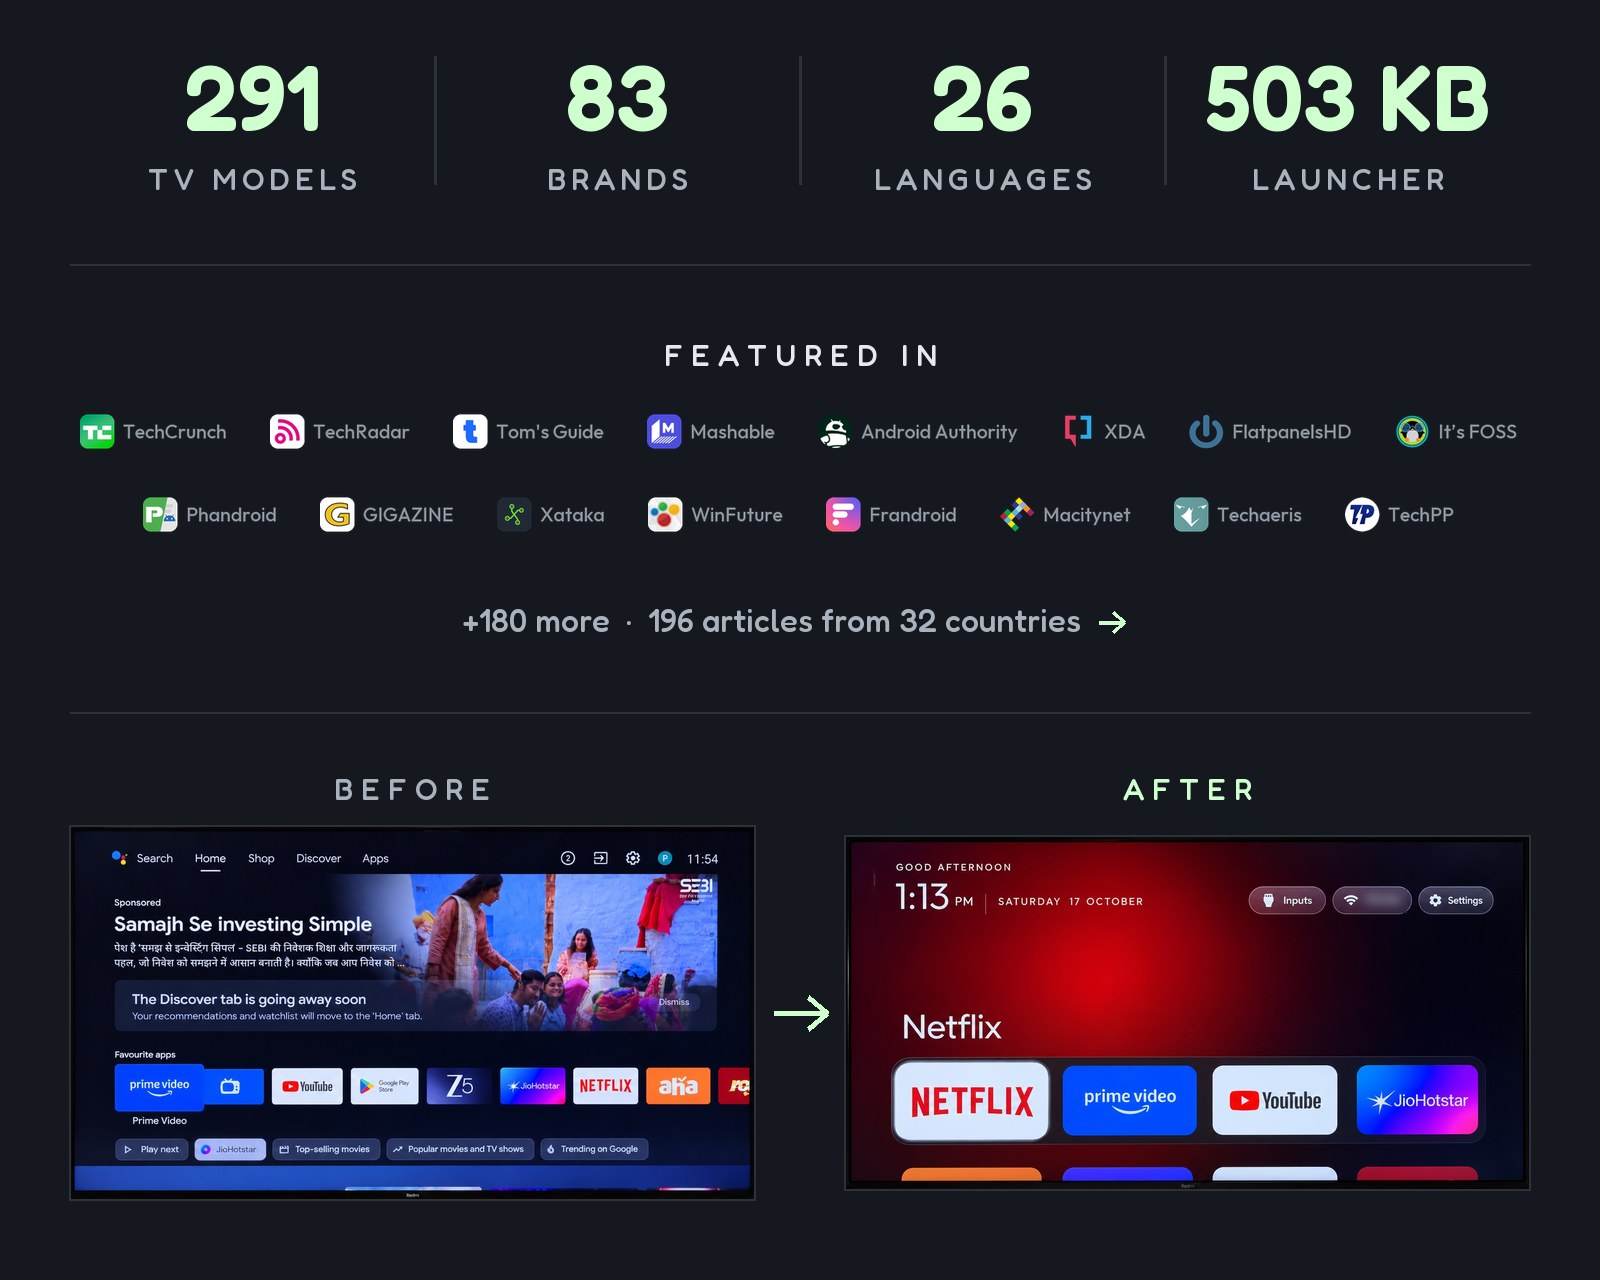
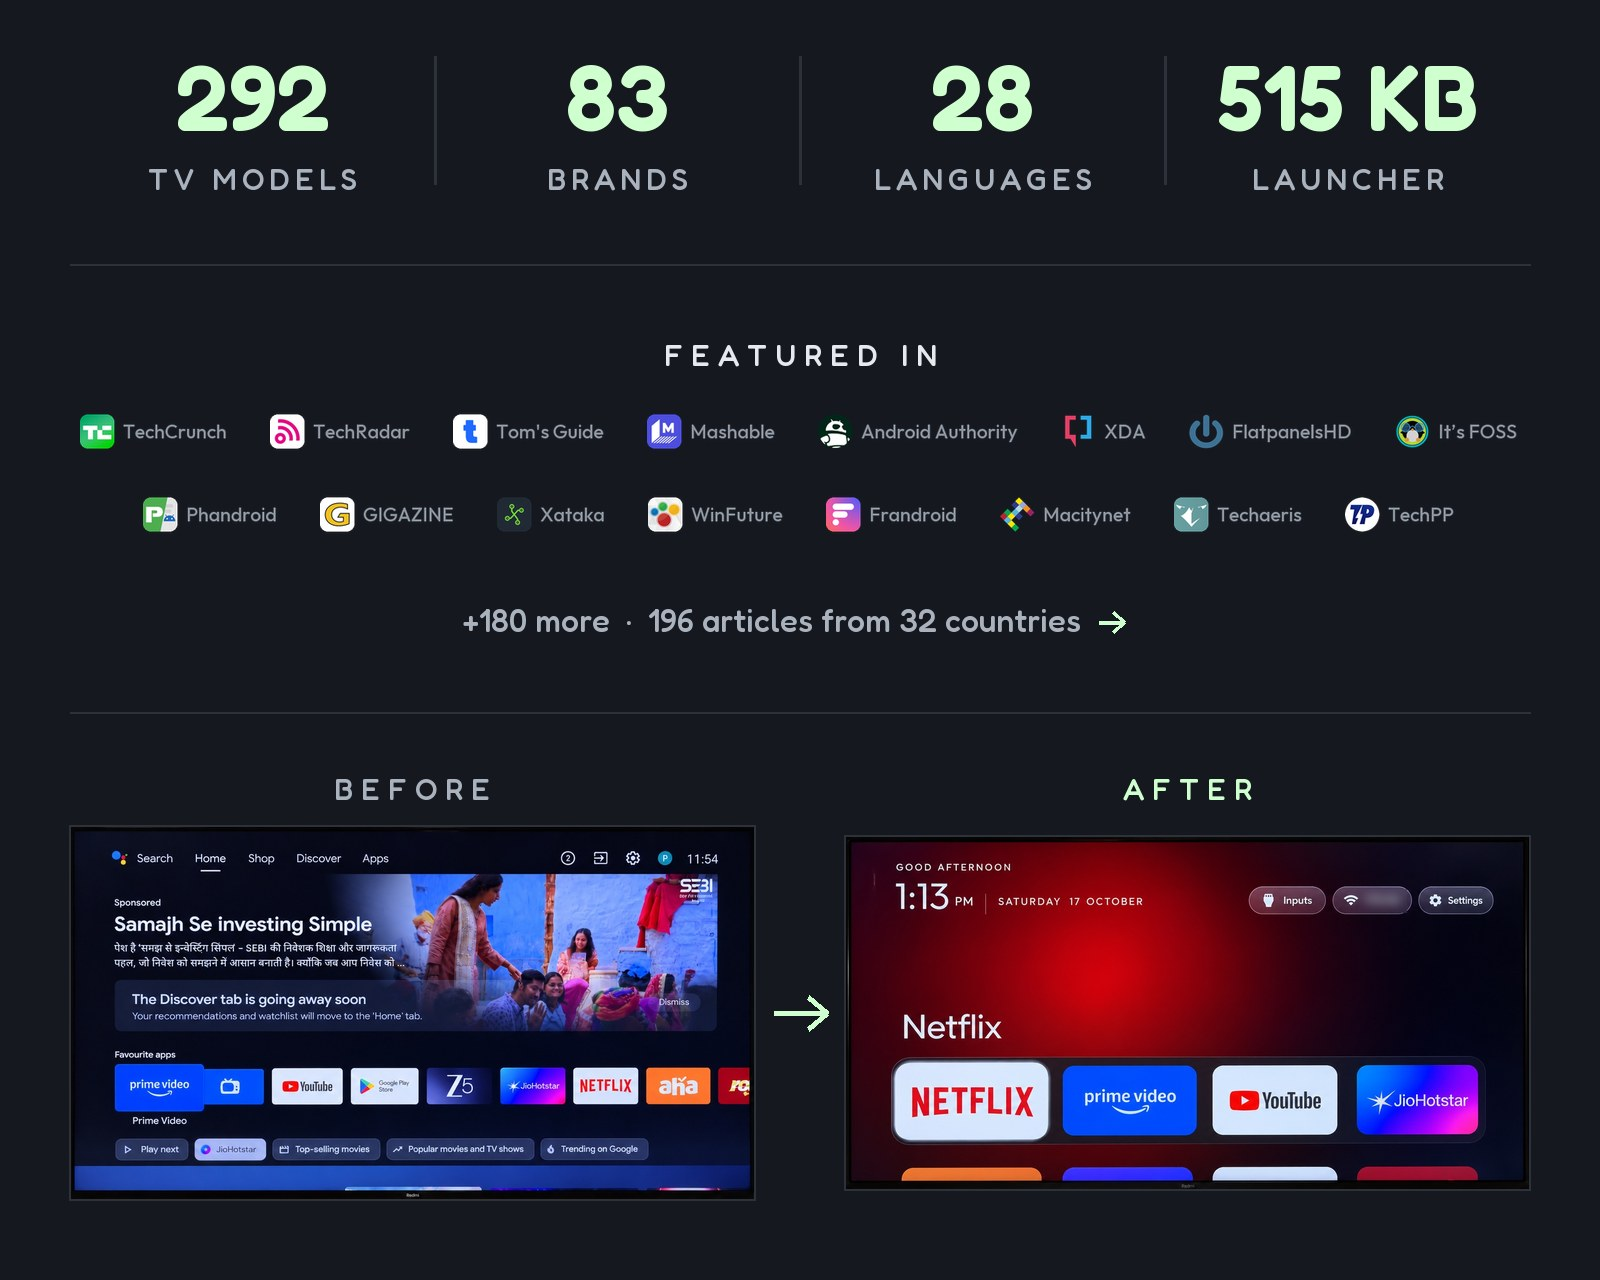
README: tables, counts and card after Round X (292 TV models, 83 brands, 28 languages, about 515 KB)

Changed region(s): [[0.75, 0.0312, 0.9375, 0.125], [0.0938, 0.0312, 0.2188, 0.125], [0.5938, 0.0625, 0.6562, 0.0938]]

diff --git a/tests/test_translation_recipe_gate.py b/tests/test_translation_recipe_gate.py
@@ -5,7 +5,7 @@ in `values/strings.xml`, so a full language is by far the largest thing a transl
 adds to `launcher/app/src/main/res/` - and the release APK has a hard budget:
 `.github/workflows/ci.yml`'s `launcher` job, which runs on every pull request in `launcher/`, measures
 `launcher/app/build/outputs/apk/release/app-release.apk` and fails the build at 589,824 B. The launcher
-ships just under that (README.md quotes about 503 KB), and #1271 is a full Korean translation that did
+ships just under that (README.md quotes about 515 KB), and #1271 is a full Korean translation that did
 not fit. Until now the page said nothing about it, so a translator could follow the recipe exactly and
 land a red build at a step the page never mentions.
 

diff --git a/tools/readme_stats.py b/tools/readme_stats.py
@@ -37,7 +37,7 @@ try:
 except ImportError:
     sys.exit("readme_stats.py needs Pillow: tools/venv/bin/pip install -r tools/requirements-perf.txt")
 
-STATS = [("291", "TV MODELS"), ("83", "BRANDS"), ("26", "LANGUAGES"), ("503 KB", "LAUNCHER")]
+STATS = [("292", "TV MODELS"), ("83", "BRANDS"), ("28", "LANGUAGES"), ("515 KB", "LAUNCHER")]
 W, H = 1600, 240
 img = Image.new("RGB", (W, H), "#15181e"); d = ImageDraw.Draw(img)
 def f(size, wt):

diff --git a/README.md b/README.md
@@ -19,7 +19,7 @@
 </p>
 
 <p align="center">
-  <a href="docs/PRESS.md"><img src="docs/card.jpg" alt="291 TV models · 83 brands · 26 languages · 503 KB launcher. Featured in TechCrunch, TechRadar, Tom's Guide, Mashable, Android Authority, XDA, FlatpanelsHD, It's FOSS, Phandroid, GIGAZINE, Xataka, WinFuture, Frandroid, Macitynet, Techaeris, TechPP and 180 more: 196 articles from 32 countries. Before: stock Google TV home with a sponsored ad. After: the Clean Your TV launcher." width="800"></a>
+  <a href="docs/PRESS.md"><img src="docs/card.jpg" alt="292 TV models · 83 brands · 28 languages · 515 KB launcher. Featured in TechCrunch, TechRadar, Tom's Guide, Mashable, Android Authority, XDA, FlatpanelsHD, It's FOSS, Phandroid, GIGAZINE, Xataka, WinFuture, Frandroid, Macitynet, Techaeris, TechPP and 180 more: 196 articles from 32 countries. Before: stock Google TV home with a sponsored ad. After: the Clean Your TV launcher." width="800"></a>
 </p>
 
 **The viral tweet:** [x.com/gathint/status/2111379569030939102](https://x.com/gathint/status/2111379569030939102)
@@ -114,7 +114,7 @@ Tested lists from contributors, one folder per model in [`examples/`](examples/)
 
 <!-- tv-brands:start: generated by tools/gen_tables.py from examples/*/tv.json; edit those, not this -->
 
-**TCL** 63 · **Sony** 37 · **Xiaomi** 31 · **Philips** 15 · **Hisense** 10 · **Skyworth** 9 · **Amazon Fire TV** 7 ·
+**TCL** 64 · **Sony** 37 · **Xiaomi** 31 · **Philips** 15 · **Hisense** 10 · **Skyworth** 9 · **Amazon Fire TV** 7 ·
 **BenQ** 4 · **OnePlus** 4 · **Panasonic** 4 · **Thomson** 4 · **Google** 3 · **Haier** 3 · **JVC** 3 · **SHARP** 3 ·
 **Vu** 3 · **CHiQ** 2 · **FFalcon** 2 · **Hitachi** 2 · **Kalley** 2 · **Kogan** 2 · **Motorola** 2 · **Nokia** 2 ·
 **NVIDIA Shield** 2 · **onn** 2 · **RCA** 2 · **Redmi** 2 · **Sankey** 2 · **Toshiba** 2 · **Vidda** 2 ·
@@ -322,6 +322,7 @@ Anker Nebula, BYINTEK, Epson, Formovie, Gadnic, HOTACK, JMGO, Magcubic, Portroni
 | TCL 50C725K (Smart TV Pro, BeyondTV4/BeyondTV6, RTD2851M, Realtek rtd288o, 2 GB), AR10 build | Android TV 11 |
 | TCL 50DP660 (Europe, "Percee TV", MediaTek MT5658 / board mt5891, V8-T658T01-LF1V602) | Android TV 8.0 |
 | TCL 50EP680 (Europe, BeyondTV, Realtek rtd285o) | Android TV 11 |
+| TCL 50J7000A (Thailand, BeyondTV, Realtek RT2851 / rtd285o, AR04, V8-R851T02-LF1V674) | Android TV 11 |
 | TCL 50P615 (Greece and Türkiye, BeyondTV, Realtek RTD2851 / rtd285o, AR05) | Android TV 11 |
 | TCL 50P735 (BeyondTV4, Smart TV Pro) | Google TV 11 |
 | TCL 55" 4K Google TV, 2023 (G10, G10_4K_US_NF); also TCL 55P6K, Spain and TCL 43P69K, Netherlands (G10_4K_GB_NF_32BIT) | Google TV 12 |
@@ -466,7 +467,7 @@ tools/theme.sh themes/aurora                                 # push a theme; --r
 | [`tools/flamechart.py`](tools/flamechart.py) | Draws a before/after flame chart from those traces, for a pull request: one lane per thread on a shared time scale, the work a change targets in magenta with its total. Optional, like the trace tools. [Guide](tools/flamechart.md). |
 | [`tools/screendiff.py`](tools/screendiff.py) | Compares a before and an after screenshot pixel by pixel, leaving out the clock or anything you mask, and writes the pair with your Wi-Fi name blurred. Optional, like the trace tools. [Guide](tools/screendiff.md). |
 | [`tools/race_calendar.py`](tools/race_calendar.py) | Writes this season's F1 calendar into a theme for race-weekend mode, from the free Jolpica API. |
-| [`launcher/build-and-install.sh`](launcher/build-and-install.sh) | Builds a shrunk release (about 503 KB), installs it, switches Home, and rolls back if Home does not land on it. |
+| [`launcher/build-and-install.sh`](launcher/build-and-install.sh) | Builds a shrunk release (about 515 KB), installs it, switches Home, and rolls back if Home does not land on it. |
 
 The scripts never leave the TV without a Home app: they only disable a stock launcher they recognise,
 and skip the Home app in a list until another launcher answers HOME. Details below.
@@ -538,7 +539,7 @@ apps), which is why the report names that loss per package instead of calling it
 
 ## The launcher
 
-A small native home screen for Android TV: **about 503 KB**, plain Java, built for TVs with 1 GB of RAM.
+A small native home screen for Android TV: **about 515 KB**, plain Java, built for TVs with 1 GB of RAM.
 No blur, no video, no network permission, no background services.
 
 The **TV** needs Android 8.0 (API 26) or newer: `minSdk` is a compile-time floor in
@@ -551,7 +552,7 @@ The **TV** needs Android 8.0 (API 26) or newer: `minSdk` is a compile-time floor
 | **Configure** | Dock order, hidden apps, Live TV app, 4 to 7 tiles per row, reduced motion. All in [`config.xml`](launcher/app/src/main/res/values/config.xml) |
 | **Settings on the TV** | Hold OK on Settings for launcher settings. Optional `launcher_settings_button` makes a normal click open them directly; TV settings remain on the settings page and their app tile. |
 | **Themes** | Background, wallpaper and layout from a `config.json` pushed over Wi-Fi, no rebuild. nine ship in [`themes/`](themes/), the built-in `default/` included |
-| **26 languages** | Follows the TV's language, with a fully mirrored right-to-left layout for Hebrew |
+| **28 languages** | Follows the TV's language, with a fully mirrored right-to-left layout for Hebrew |
 | **App library** | Optional: browse every installed app and add or remove Home shortcuts. See [the app library guide](docs/app-library.md) |
 | **Tile menu** | Optional (`tile_menu`): hold OK on a tile for Move, Remove from Home and App info. Off, holding OK opens App info |
 | **Module cards** | Any TV app can offer its own tile; you approve each one once. See [`docs/modules.md`](docs/modules.md) |

diff --git a/examples/README.md b/examples/README.md
@@ -196,6 +196,7 @@ on that firmware, grouped and commented. These are starting points: comment out 
 | `tcl-50c725k/` | TCL 50C725K (Smart TV Pro, BeyondTV4/BeyondTV6, RTD2851M, Realtek rtd288o, 2 GB), AR10 build | Android TV 11 | Same BeyondTV4 family as `tcl-65c725/` and `tcl-55c725/`, with the older `tvlauncher` (replaced by `launcher/`); TCL home-content push, TCL Channel, promos, analytics, messagebox, dashboard, browser, gallery, auto-installs and Google feedback/partner setup; Google voice (katniss, ~175 MB RAM), TalkBack/TTS and Netflix/Stan/Play Games off by choice; TCL account, firmware updater, Chromecast, Miracast and screensaver kept; Live TV `com.tcl.tv` and inputs `com.tcl.tvinput` kept; reboot-checked |
 | `tcl-50dp660/` | TCL 50DP660 (Europe, "Percee TV", MediaTek MT5658 / board mt5891, V8-T658T01-LF1V602) | Android TV 8.0 | TCL content tiles (T-Channel), MagiConnect, Alexa bridge, OTA updater, USB players, Rakuten preload and ODM test apps; Assistant and speech recognition off (no microphone), Cast kept; stock launcher has HOME priority 2 and must be disabled; three PERSISTENT `android.uid.system` packages survive `disable-user`; factory menu from the remote via Picture > Advanced Settings > Brightness > Contrast > `1950` with network ADB on 5555; an NVM reset needs a factory reset and a USB reflash afterwards or the Wi-Fi MAC, Widevine keybox and Netflix ESN stay wiped; [compatibility notes](../docs/devices/tcl-50dp660.txt) |
 | `tcl-50ep680/` | TCL 50EP680 (Europe, BeyondTV, Realtek rtd285o) | Android TV 11 | TCL analytics + content feed, giftbox dashboard, partner customizer, preloaded games/news; UK Freeview apps already off at the factory; voice off by choice; launcher works (stock `com.google.android.tvlauncher`, Live TV `com.tcl.tv`) |
+| `tcl-50j7000a/` | TCL 50J7000A (Thailand, BeyondTV, Realtek RT2851 / rtd285o, AR04, V8-R851T02-LF1V674) | Android TV 11 | Same AR04 build as `tcl-55ep640/` on Asia-Pacific firmware (TCL-AP-RT2851-S1) with AIS PLAY preloaded; TCL analytics, home-content push, TCL Channel, promos, message box, sticker, Google feedback/partner setup and recommendation rows off; Prime Video, Play Movies/Games, YouTube Music and preloaded games off by choice, voice off by choice; Chromecast, Miracast/MagiConnect, USB media, TCL Browser and the firmware updater kept; Live TV `com.tcl.tv` kept; launcher installed, reboot-checked, lived with for four days |
 | `tcl-50p615/` | TCL 50P615 (Greece and Türkiye, BeyondTV, Realtek RTD2851 / rtd285o, AR05) | Android TV 11 | Same series as `tcl-43p615/` and the same AR05 firmware as the BeyondTV2 Android 11 list; ships `tclhome_master` (absent on the 43P615); TCL analytics, promos, TCL Channel, TGuard and USB media centre off; voice off by choice, Chromecast, Miracast/MagiConnect, OTA, the phone remote and AirScreen (AirPlay) kept; nothing re-enabled after a reboot, but the kept TCL updater re-enabled TCL Channel on a second unit by updating it; HDMI 1-3, AV and Live TV through TvInputManager, launcher installed and every real remote button checked |
 | `tcl-50p735/` | TCL 50P735 (BeyondTV4, Smart TV Pro) | Google TV 11 | Provisional (one owner, no reboot check reported): TCL analytics and logging, promo and content rows (partnercustomizer, waterfall, channelplus), Google extras, cleaners, duplicate webview, updater (re-enable for firmware updates) |
 | `tcl-g10-google-tv/` | TCL 55" 4K Google TV, 2023 (G10, G10_4K_US_NF); also TCL 55P6K, Spain and TCL 43P69K, Netherlands (G10_4K_GB_NF_32BIT) | Google TV 12 | TCL TV+, TCL Live, store demo, smartlink installer; setupwraith also claims Home once the stock launcher is disabled; on the Netherlands 43P69K, Samba TV ACR, logkit and ttvs shipped enabled (disabled and reboot-checked), setupwraith owned the setup Wi-Fi (re-join first), and dreamx was re-enabled to keep the screensaver menu; unit-specific packages are optional |

diff --git a/docs/workflows/translation.md b/docs/workflows/translation.md
@@ -28,7 +28,7 @@
 7. Check the size gate before you push. A language's strings ship in the release APK, and that APK has to
    stay under 589,824 B (576 KB): `launcher/app/build/outputs/apk/release/app-release.apk`, measured with
    `stat -c %s` on Linux or `stat -f %z` on macOS, and checked by the "Launcher build and unit tests" job
-   on every pull request. `README.md` quotes the launcher at about 503 KB, so a full language can be the
+   on every pull request. `README.md` quotes the launcher at about 515 KB, so a full language can be the
    difference between green and a failed build. A language that does not fit is a maintainer decision, not
    something to land by dropping strings ([#1271](https://github.com/Gathin23/cleanyourtv/issues/1271)).
 8. Build the launcher, set the TV's language (Android 13+: `tools/tv.py 'cmd locale set-app-locales com.gathin.tvhome --locales <tag>'`)

diff --git a/.github/maintainer/MAINTAINER.md b/.github/maintainer/MAINTAINER.md
@@ -1,7 +1,7 @@
 # How CleanYourTV PRs are reviewed
 
 CleanYourTV (Gathin23/cleanyourtv) is a prompt plus tools that debloat Android TV / Google TV / Fire TV over
-ADB and a tiny native launcher (`launcher/`, plain Java, ~503 KB, for 1 GB TVs). Contributors mostly add
+ADB and a tiny native launcher (`launcher/`, plain Java, ~515 KB, for 1 GB TVs). Contributors mostly add
 tested TV lists under `examples/<tv>/`, translations, docs, small launcher options, themes, add-ons and tools.
 
 ## The policy: a small core plus a well-indexed hub
